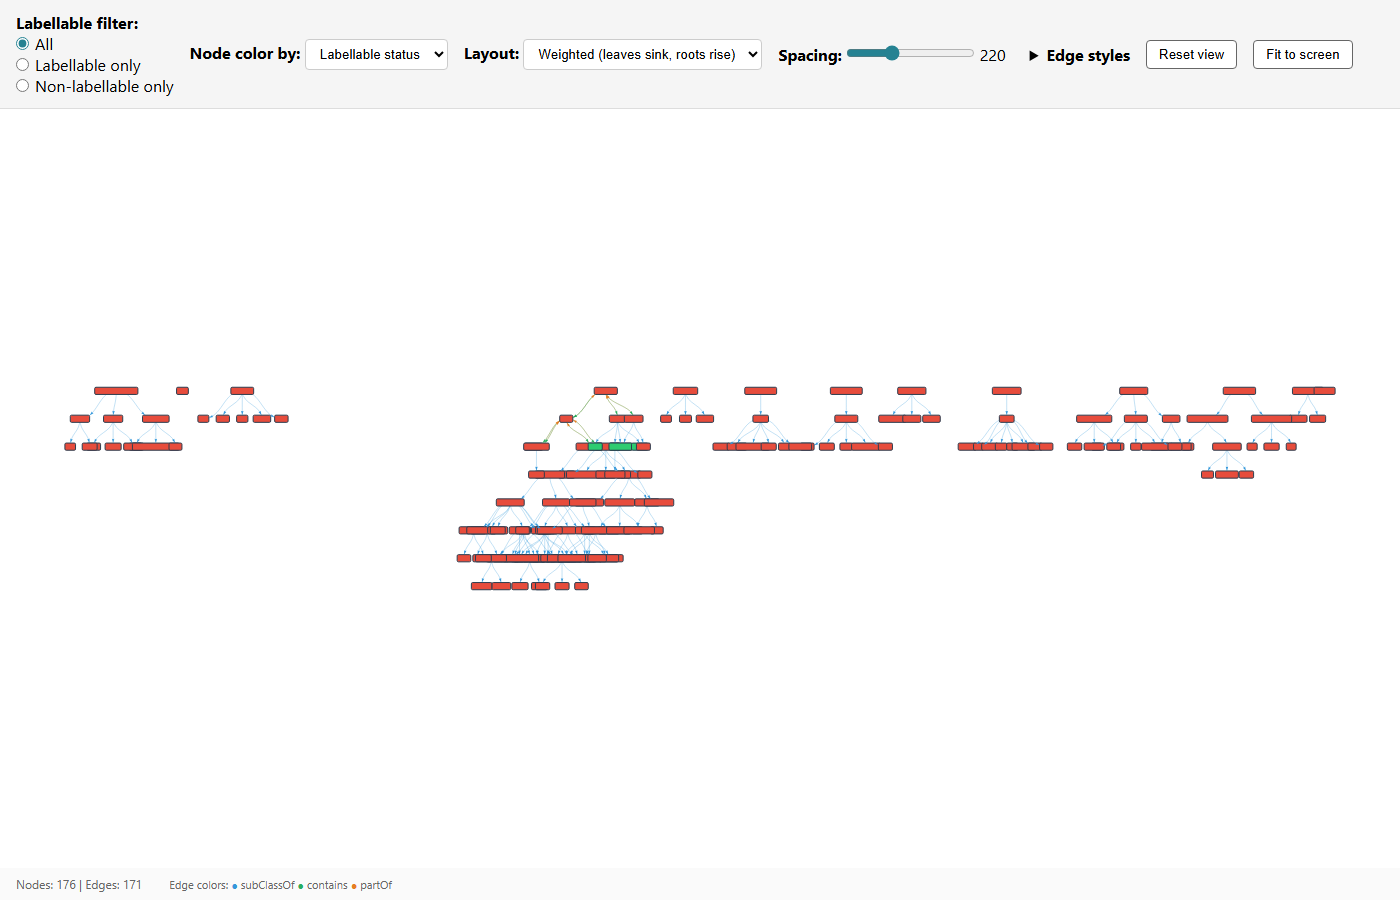
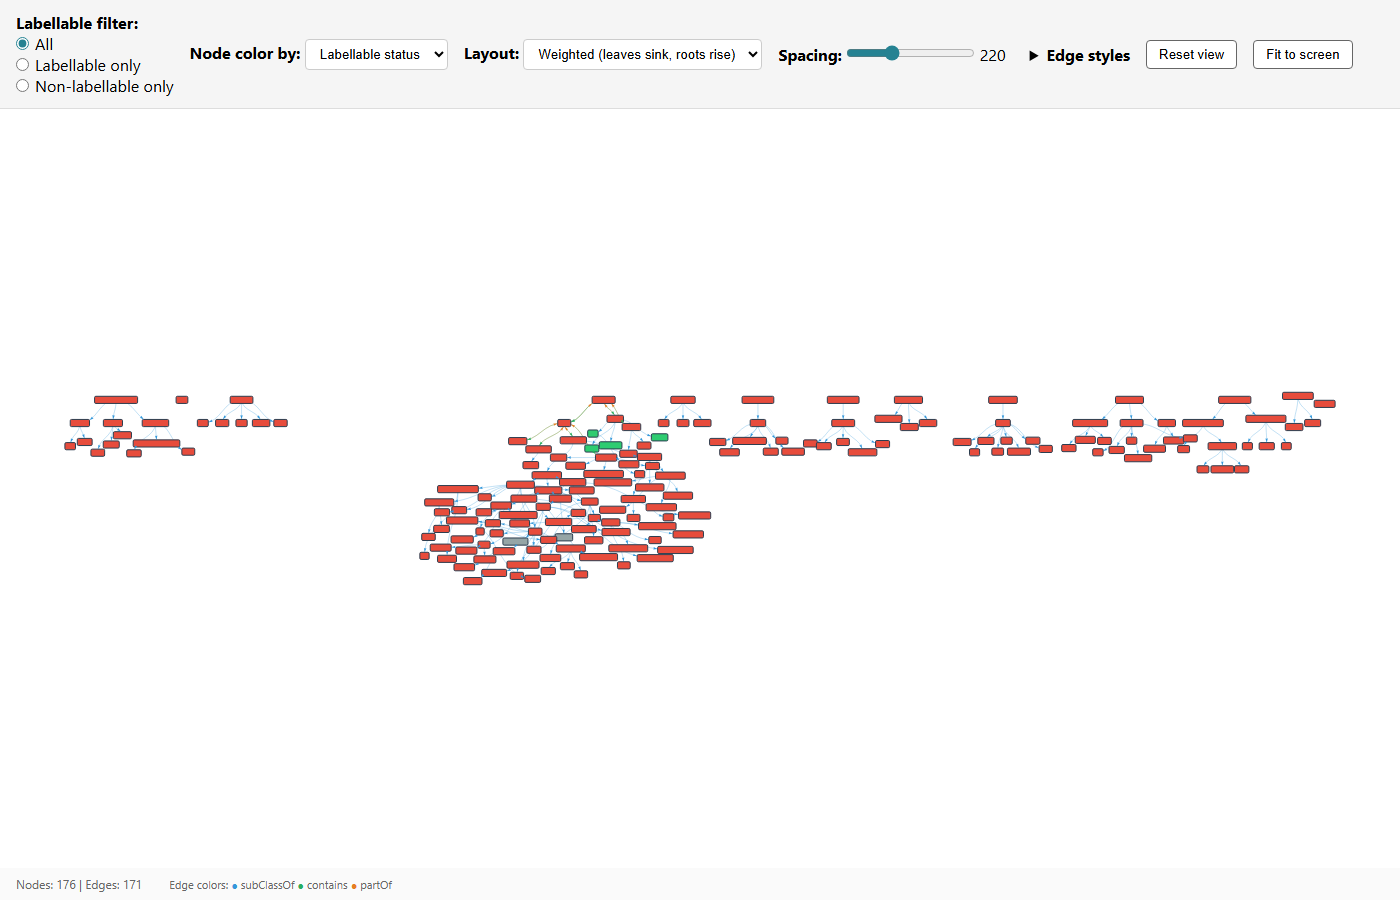
try

Changed region(s): [[0.2764, 0.4044, 0.9521, 0.6844], [0.0307, 0.4044, 0.215, 0.5289]]

diff --git a/Visualizer/visualizer.html b/Visualizer/visualizer.html
@@ -244,6 +244,41 @@
             return positions;
         }
 
+        function resolveOverlaps(positions, nodes, padding) {
+            const getSize = (n) => ({
+                halfW: Math.max(25, (n.label || '').length * 3.5),
+                halfH: 14
+            });
+            const idToNode = {};
+            nodes.forEach(n => { idToNode[n.id] = n; });
+            const ids = Object.keys(positions);
+            const pad = padding || 6;
+            for (let iter = 0; iter < 100; iter++) {
+                let moved = false;
+                for (let i = 0; i < ids.length; i++) {
+                    for (let j = i + 1; j < ids.length; j++) {
+                        const a = ids[i], b = ids[j];
+                        const pa = positions[a], pb = positions[b];
+                        const sa = getSize(idToNode[a] || { label: '' });
+                        const sb = getSize(idToNode[b] || { label: '' });
+                        const dx = pb.x - pa.x;
+                        const minDistX = sa.halfW + sb.halfW + pad;
+                        const minDistY = sa.halfH + sb.halfH + pad;
+                        const distX = Math.abs(dx);
+                        const distY = Math.abs(pb.y - pa.y);
+                        if (distX < minDistX && distY < minDistY) {
+                            const overlapX = minDistX - distX;
+                            const shiftX = (dx >= 0 ? 1 : -1) * overlapX / 2;
+                            pa.x -= shiftX;
+                            pb.x += shiftX;
+                            moved = true;
+                        }
+                    }
+                }
+                if (!moved) break;
+            }
+        }
+
         function buildNetworkData(filter) {
             const labellableFilter = filter.labellable;
             const nodeIds = new Set();
@@ -268,6 +303,7 @@
             let nodePositions = {};
             if (layoutMode === 'weighted') {
                 nodePositions = computeWeightedLayout(nodeIds, filteredEdges, spacing);
+                resolveOverlaps(nodePositions, filteredNodes, spacing * 0.04);
             }
 
             const nodes = filteredNodes.map(n => {

diff --git a/Visualizer/convert_to_html_view.py b/Visualizer/convert_to_html_view.py
@@ -360,6 +360,41 @@ def generate_html(nodes: list[dict], edges: list[dict]) -> str:
             return positions;
         }}
 
+        function resolveOverlaps(positions, nodes, padding) {{
+            const getSize = (n) => ({{
+                halfW: Math.max(25, (n.label || '').length * 3.5),
+                halfH: 14
+            }});
+            const idToNode = {{}};
+            nodes.forEach(n => {{ idToNode[n.id] = n; }});
+            const ids = Object.keys(positions);
+            const pad = padding || 6;
+            for (let iter = 0; iter < 100; iter++) {{
+                let moved = false;
+                for (let i = 0; i < ids.length; i++) {{
+                    for (let j = i + 1; j < ids.length; j++) {{
+                        const a = ids[i], b = ids[j];
+                        const pa = positions[a], pb = positions[b];
+                        const sa = getSize(idToNode[a] || {{ label: '' }});
+                        const sb = getSize(idToNode[b] || {{ label: '' }});
+                        const dx = pb.x - pa.x;
+                        const minDistX = sa.halfW + sb.halfW + pad;
+                        const minDistY = sa.halfH + sb.halfH + pad;
+                        const distX = Math.abs(dx);
+                        const distY = Math.abs(pb.y - pa.y);
+                        if (distX < minDistX && distY < minDistY) {{
+                            const overlapX = minDistX - distX;
+                            const shiftX = (dx >= 0 ? 1 : -1) * overlapX / 2;
+                            pa.x -= shiftX;
+                            pb.x += shiftX;
+                            moved = true;
+                        }}
+                    }}
+                }}
+                if (!moved) break;
+            }}
+        }}
+
         function buildNetworkData(filter) {{
             const labellableFilter = filter.labellable;
             const nodeIds = new Set();
@@ -384,6 +419,7 @@ def generate_html(nodes: list[dict], edges: list[dict]) -> str:
             let nodePositions = {{}};
             if (layoutMode === 'weighted') {{
                 nodePositions = computeWeightedLayout(nodeIds, filteredEdges, spacing);
+                resolveOverlaps(nodePositions, filteredNodes, spacing * 0.04);
             }}
 
             const nodes = filteredNodes.map(n => {{
